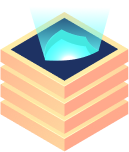
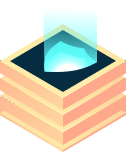
+

diff --git a/js/script.js b/js/script.js
@@ -171,10 +171,10 @@ window.addEventListener('scroll', (event) => {
     $(".cube__item__item-9").css("right", "232px");
     $(".cube__item__item-10").css("top", "136px");
     $(".cube__item__item-10").css("right", "229px");
-    $(".cube__item__item-12").css("top", "260px");
-    $(".cube__item__item-13").css("top", "340px");
-    $(".cube__item__item-14").css("top", "365px");
-    $(".cube__item__item-15").css("top", "394px");
+    $(".cube__item__item-12").css("top", "230px");
+    $(".cube__item__item-13").css("top", "323px");
+    $(".cube__item__item-14").css("top", "362px");
+    $(".cube__item__item-15").css("top", "404px");
   }
 
 
@@ -203,7 +203,7 @@ window.addEventListener('scroll', (event) => {
   if(scroll > 1200) {
     $(".cube__item__item-4").css("left", "178px");
     $(".cube__item__item-4").css("bottom", "97px");
-    $(".cube__item__item-9").css("top", "90px");
+    $(".cube__item__item-9").css("top", "77px");
     $(".cube__item__item-9").css("right", "229px");
   }
 })

diff --git a/css/style.css b/css/style.css
@@ -936,7 +936,7 @@ button {
 }
 
 .cube__item__item-12 {
-    top: 186px;
+    top: 230px;
     right: 178px;
     z-index: 120;
 }
@@ -994,26 +994,26 @@ button {
 }
 
 .cube__item__item-12 {
-    top: 260px;
+    top: 230px;
     right: 91px;
     z-index: 130;
 }
 
 .cube__item__item-13 {
     z-index: 129;
-    top: 340px;
+    top: 323px;
     right: 91px;
 }
 
 .cube__item__item-14 {
     z-index: 128;
-    top: 365px;
+    top: 362px;
     right: 91px;
 }
 
 .cube__item__item-15 {
     z-index: 125;
-    top: 394px;
+    top: 404px;
     right: 91px;
 }
 
